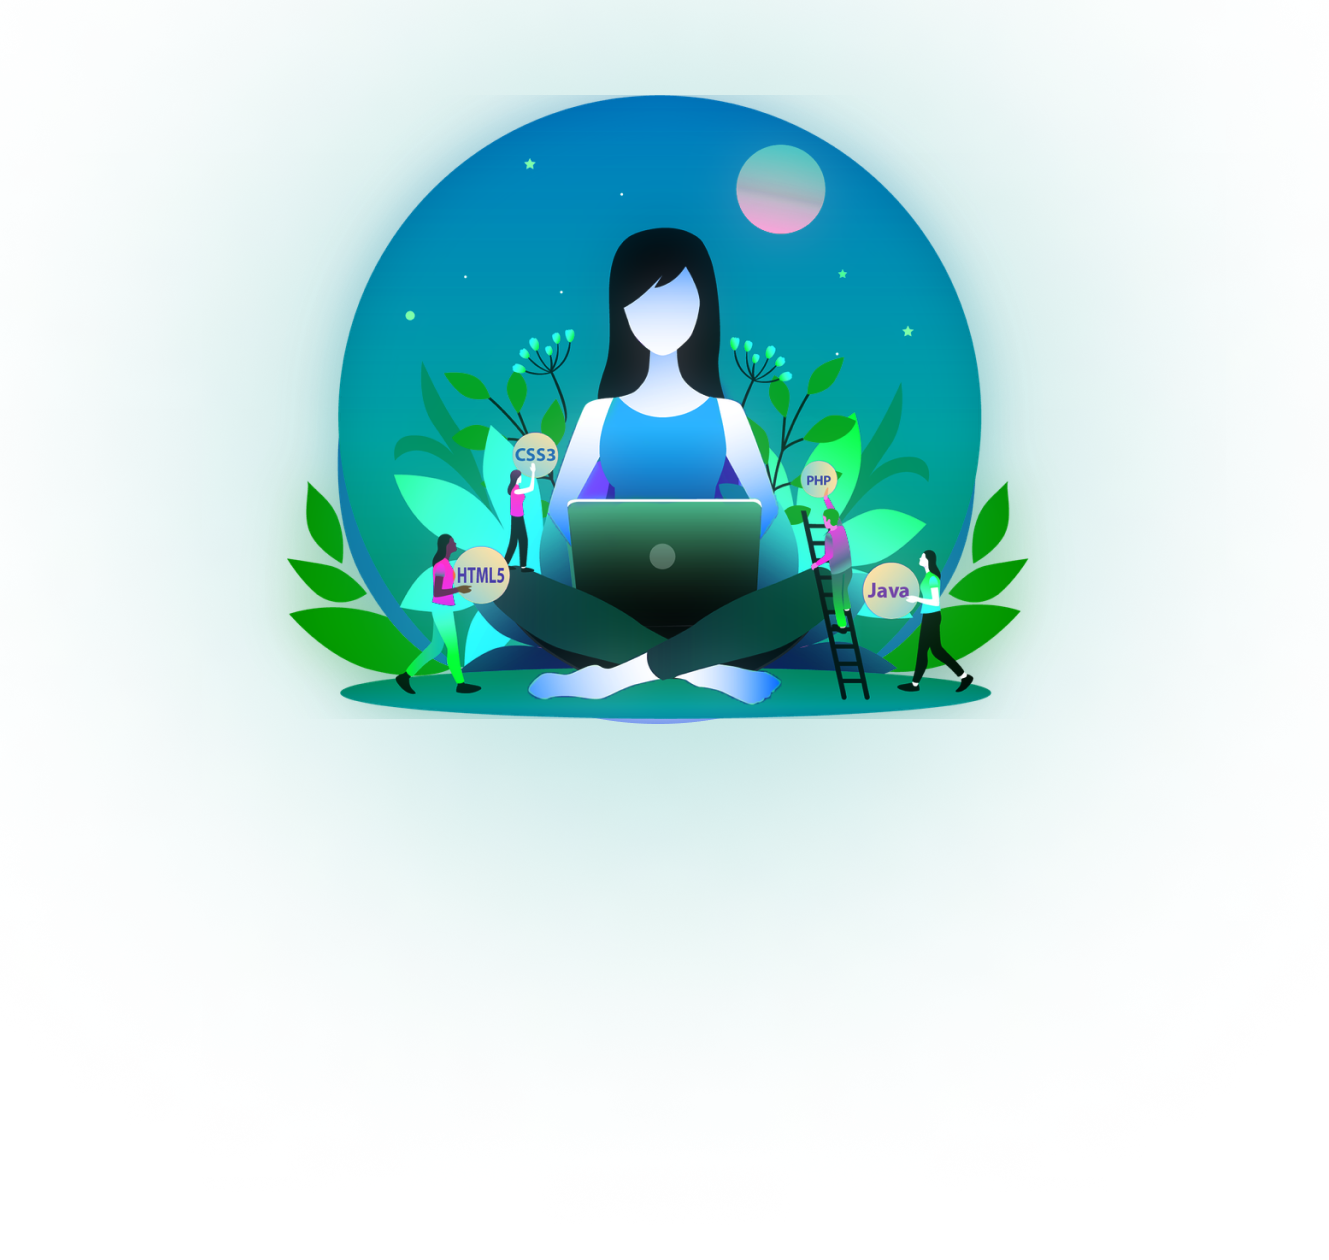
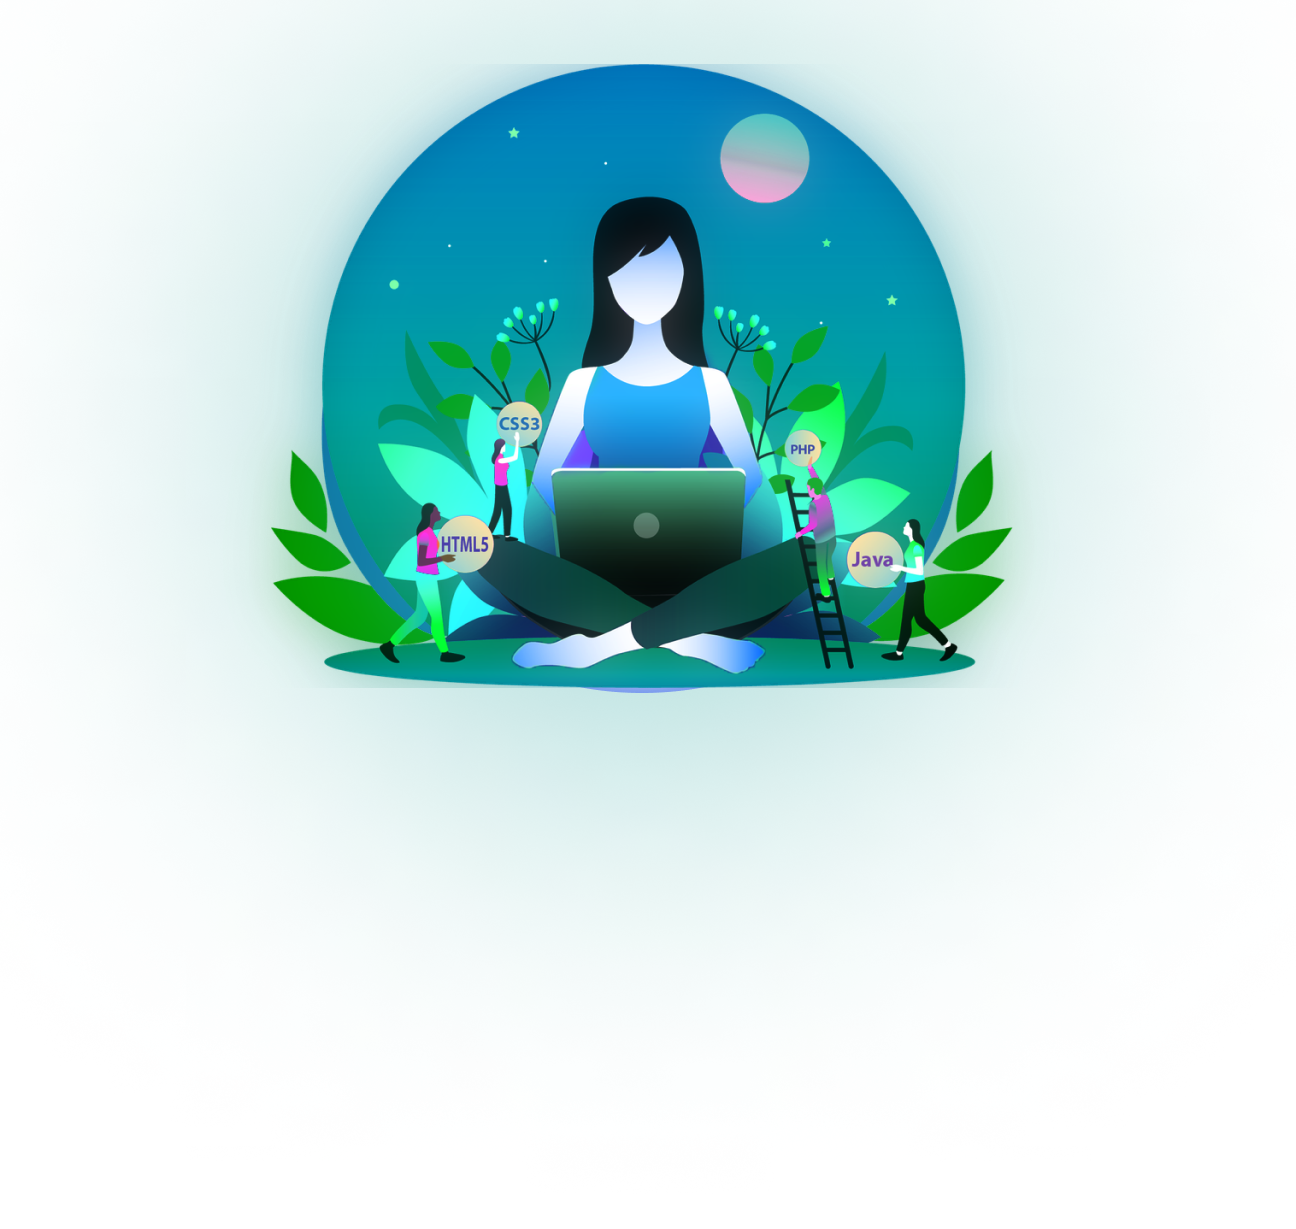
add about us section

Changed region(s): [[0.216, 0.0309, 0.7716, 0.5875]]

diff --git a/index.html b/index.html
@@ -35,25 +35,25 @@
         <img class="gridlines" src="./images/main/gridlines.png">
         <div class="navi">
             <ul class="nav-links">
-                <li class="center"><a href="#">Home</a></li>
-                <li class="center"><a href="#">About Us</a></li>
-                <li class="center"><a href="#">Contact Us</a></li>
+                <li class="center"><a href="#hero">Home</a></li>
+                <li class="center"><a href="#about">About Us</a></li>
+                <li class="center"><a href="#contact">Contact Us</a></li>
                 <li class="center"><a href="#">Apply Now</a></li>
             </ul>
         </div>
 
         <div class="hero">
-            <img class="hero-img" src="./images/main/hero1.png">
+            <img class="hero-img" src="./images/main/hero.png">
             <div class="container">
                 <!-- <h1 class="name"><strong class="pixel">PIXEL</strong><br><strong class="code">CODE</strong></h1>
                 <h1 class="name"><strong class="pixel">PIXEL</strong><br><strong class="code">CODE</strong></h1>
                 <h1 class="name"><strong class="pixel">PIXEL</strong><br><strong class="code">CODE</strong></h1> -->
-                <h1 class="name1"><strong class="pixel">PIXEL</strong></h1>
-                <h1 class="name1"><strong class="pixel">PIXEL</strong></h1>
-                <h1 class="name1"><strong class="pixel">PIXEL</strong></h1>
-                <h1 class="name2"><strong class="code">CODE</strong></h1>
-                <h1 class="name2"><strong class="code">CODE</strong></h1>
-                <h1 class="name2"><strong class="code">CODE</strong></h1>
+                <h1 class="name1 glitch"><strong class="pixel">PIXEL</strong></h1>
+                <h1 class="name1 glitch"><strong class="pixel">PIXEL</strong></h1>
+                <h1 class="name1 glitch"><strong class="pixel">PIXEL</strong></h1>
+                <h1 class="name2 glitch"><strong class="code">CODE</strong></h1>
+                <h1 class="name2 glitch"><strong class="code">CODE</strong></h1>
+                <h1 class="name2 glitch"><strong class="code">CODE</strong></h1>
             </div>
             <p class="tagline">Developing the next generation of tech leaders</p>
         </div>
@@ -62,18 +62,28 @@
         <div>
             <div class="rows">
                 <div class="column">
-                    <div class="cards"><img src="./images/main/1.png"><br>Simplified<br>Internships</div>
+                    <div class="cards zoom"><img src="./images/main/1.png"><br>Simplified<br>Internships</div>
                 </div>
                 <div class="column">
-                    <div class="cards"><img src="./images/main/2.png"><br>Valuable<br>Experience</div>
+                    <div class="cards zoom"><img src="./images/main/2.png"><br>Valuable<br>Experience</div>
                 </div>
                 <div class="column">
-                    <div class="cards"><img src="./images/main/3.png"><br>Valid<br>Certification</div>
+                    <div class="cards zoom"><img src="./images/main/3.png"><br>Valid<br>Certification</div>
                 </div>
                 <div class="column">
-                    <div class="cards"><img src="./images/main/4.png"><br>Build<br>Network</div>
+                    <div class="cards zoom"><img src="./images/main/4.png"><br>Build<br>Network</div>
                 </div>
             </div>
+        </div>
+    </section>
+    <section id="about">
+        <div>
+            <h1 class="about-head">ABOUT US</h1>
+            <img class="about-img" src="./images/main/about-us.png">
+            <p class="about-body">At PixelCode, we believe in nurturing young talent and empowering you to shape your
+                future.
+                Join our innovative company and embark on a transformative journey that celebrates your curiosity,
+                passion, and potential.</p>
         </div>
     </section>
 </body>

diff --git a/css/home.css b/css/home.css
@@ -37,7 +37,7 @@ img {
   color: #fff;
   font-size: 20px;
   font-weight: 500;
-  padding: 6px 16px;
+  padding: 10px 50px;
   text-decoration: none;
 }
 .nav-links li a:before {
@@ -89,10 +89,9 @@ img {
 
 .name2 {
   position: absolute;
-  top: 65%;
-  left: 3%;
+  top: 51%;
+  left: 75%;
   transform: translate(-50%, -50%);
-  font-size: 80px;
   color: #fff;
   text-shadow: 0 0 20px #34efdf;
 }
@@ -103,15 +102,16 @@ img {
 
 .code {
   font-family: "Devil Breeze Bold";
-  font-size: 100px;
+  font-size: 99px;
 }
 
 .tagline {
   position: absolute;
-  top: 55%;
-  left: 85%;
+  top: 96%;
+  left: 50%;
+  width: 100%;
   transform: translate(-50%, -50%);
-  font-size: 35px;
+  font-size: 25px;
   color: #fff;
   text-shadow: 0 0 20px #34efdf;
   font-family: "Minecraft Regular";
@@ -122,7 +122,7 @@ img {
   margin: 30vw auto;
 }
 
-h1 {
+.glitch {
   text-align: center;
   color: #fff;
   font-size: 5em;
@@ -137,22 +137,22 @@ h1 {
   animation: glitch1 5s infinite;
 }
 
-h1:nth-child(2) {
+.glitch:nth-child(2) {
   color: #67f3da;
   animation: glitch2 5s infinite;
 }
 
-h1:nth-child(3) {
+.glitch:nth-child(3) {
   color: #f16f6f;
   animation: glitch3 5s infinite;
 }
 
-h1:nth-child(5) {
+.glitch:nth-child(5) {
   color: #67f3da;
   animation: glitch2 5s infinite;
 }
 
-h1:nth-child(6) {
+.glitch:nth-child(6) {
   color: #f16f6f;
   animation: glitch3 5s infinite;
 }
@@ -345,18 +345,21 @@ h1:nth-child(6) {
 
 /* Style the counter cards */
 .cards {
-  box-shadow: 0 4px 8px 0 rgba(0, 0, 0, 0.2); /* this adds the "card" effect */
+  box-shadow: 0 4px 8px 0 rgba(0, 0, 0, 0.2);
+  /* this adds the "card" effect */
   padding-top: 70px;
   padding-bottom: 70px;
   padding-left: 15px;
   padding-right: 15px;
   text-align: center;
   font-family: "Minecraft Regular";
-  background-image: url(../images/main/card-bg.png);
+  /* background-image: url(../images/main/card-bg.png); */
+  background-image: linear-gradient(#0079b8, #01937c);
   background-color: #0e121a;
   color: white;
   font-size: 30px;
   border-radius: 20px;
+  z-index: 1;
 }
 
 /* Responsive columns - one column layout (vertical) on small screens */
@@ -366,6 +369,53 @@ h1:nth-child(6) {
     display: block;
     margin-bottom: 20px;
   }
+}
+
+.zoom {
+  transition: transform 1s; /* Animation */
+  margin: 0 auto;
+}
+
+.zoom:hover {
+  transform: scale(
+    1.5
+  ); /* (150% zoom - Note: if the zoom is too large, it will go outside of the viewport) */
+}
+
+#about {
+  border-radius: 276px 276px 0px 0px;
+  background: #24a19c;
+  mix-blend-mode: hard-light;
+  width: 100%;
+  padding: 50px;
+  text-align: center;
+}
+
+.about-head {
+  color: #fff;
+  text-shadow: -1px -1px 23px rgba(45, 236, 249, 0.6);
+  font-family: "Minecraft Regular";
+  font-size: 80px;
+  font-style: normal;
+  font-weight: 500;
+  line-height: normal;
+  text-transform: capitalize;
+}
+
+.about-body {
+  color: #fff;
+  text-align: center;
+  font-family: cursive;
+  font-size: 25px;
+  font-style: normal;
+  font-weight: 500;
+  line-height: normal;
+  text-transform: capitalize;
+}
+
+.about-img {
+  height: 450px;
+  width: 450px;
 }
 
 ::-webkit-scrollbar {
